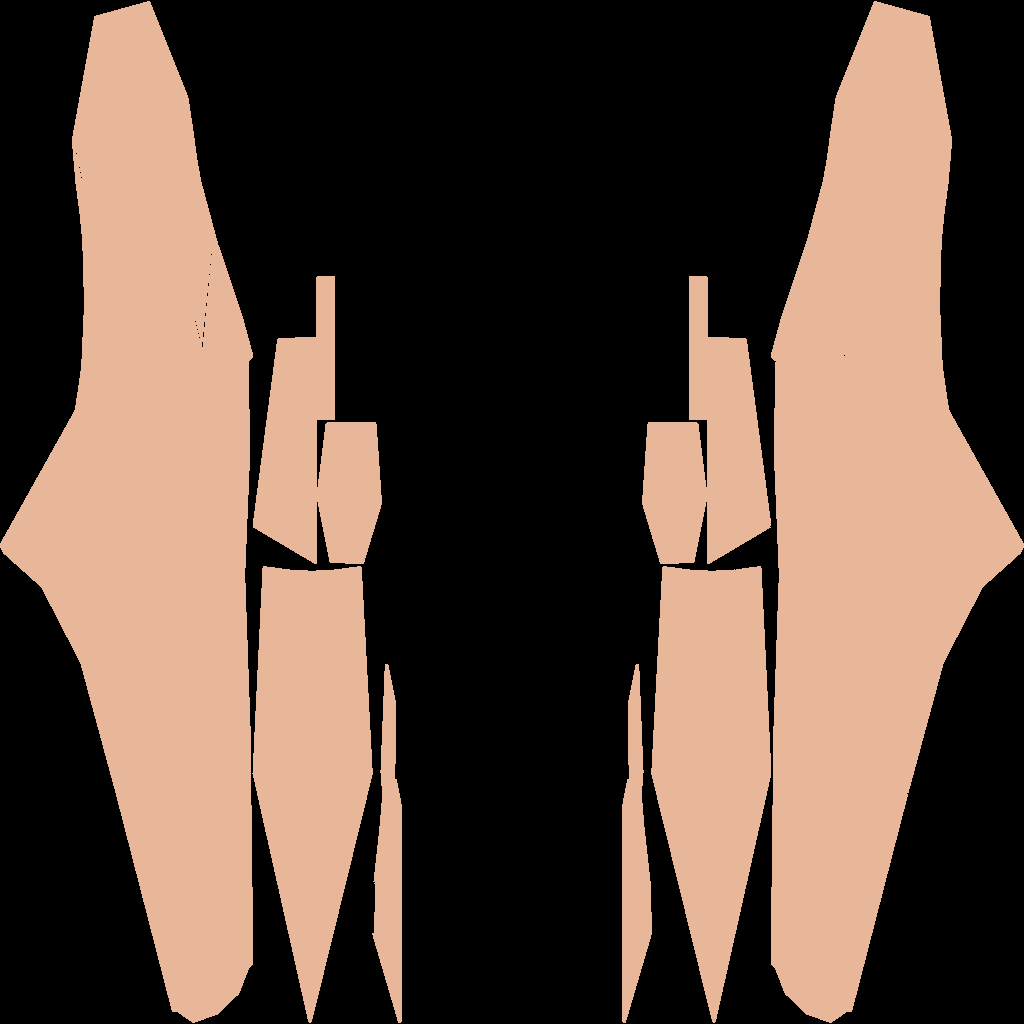
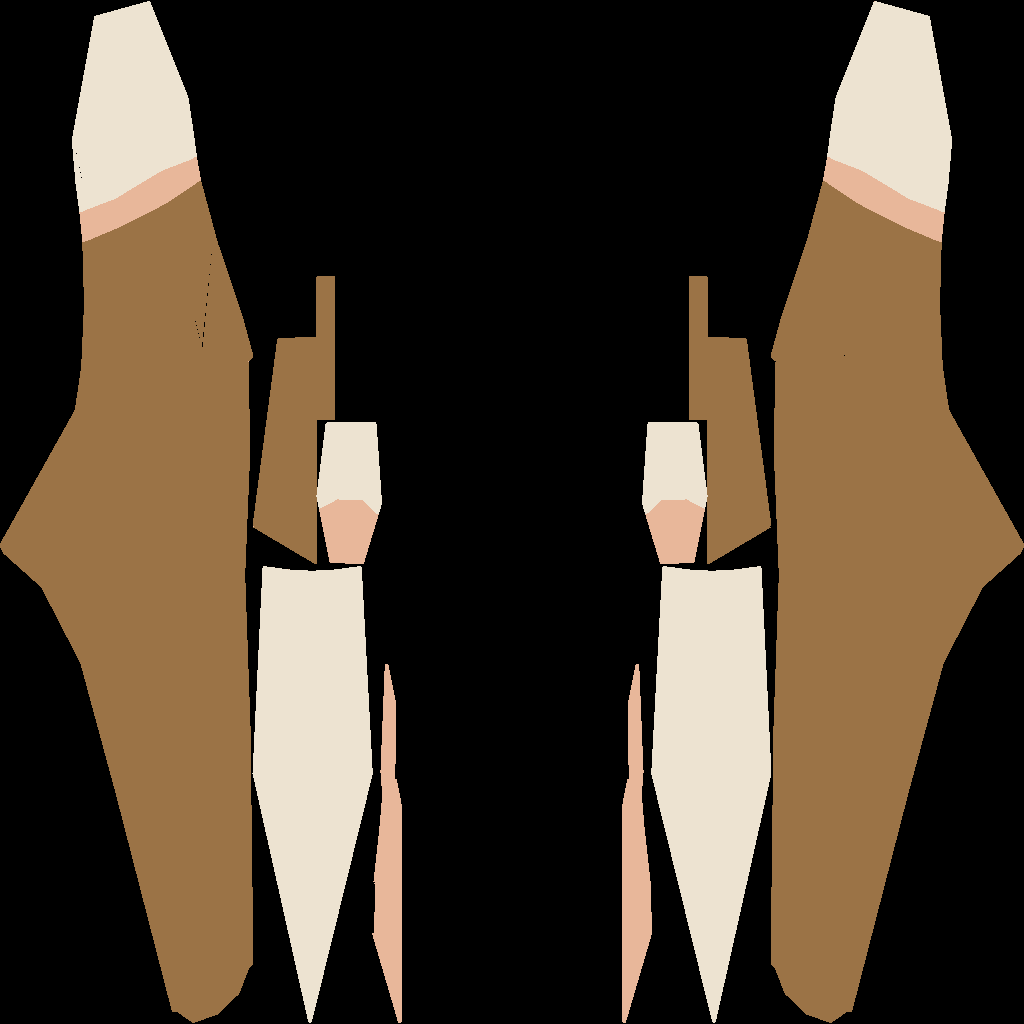
Cassie clothing block-in: camel + ivory flat fills on cassie_body_D
Trousers camel below waistband z 1.120. Sweater ivory crop hem z 1.158 to mock-neck top z 1.399, sleeves to wrist ring z 0.930. Skin strips at midriff, hands, neck. Face-mask fills, preview colors, final call in Unity.

Geometry unchanged: 425 verts / 400 faces / 802 tris.

diff --git a/ArtSource/Characters/mark_body_seams.py b/ArtSource/Characters/mark_body_seams.py
@@ -1,0 +1,88 @@
+# mark_body_seams.py -- Rara Day 134
+# Marks the body (material slot 0) seam set on Cassie_Mesh and selects only
+# material-0 faces, ready for U > Unwrap.
+#
+# Run with Cassie_Mesh in EDIT MODE. Touches seam flags and selection only --
+# no geometry, no weights, no modifiers. To revert: select all, Edge > Clear Seam.
+#
+# Edge list derived from Cassie_Blockout.blend, not from recall.
+
+import bpy
+import bmesh
+
+# --- seam set -------------------------------------------------------------
+# Leg: from the mirror-plane boundary at the hip, across the seat, down the
+# back-inner corner of the leg to the sole. Opens the leg tube so it unrolls.
+LEG = [(12, 22), (22, 124), (124, 109), (109, 27),
+       (27, 168), (168, 172), (172, 31), (31, 35)]
+
+# Arm: wrist ring splits sleeve from hand (also gives a hard ivory/skin edge),
+# plus one slit along the back-underside of the sleeve to the shoulder cap.
+WRIST_RING = [(44, 46), (46, 139), (139, 138), (138, 44)]
+SLEEVE_SLIT = [(44, 38), (38, 39)]
+
+# Toe box: closed cube, needs a ring. Inner-face perimeter, splits it into
+# one cap plus a five-face disk.
+TOE = [(100, 101), (101, 103), (103, 102), (102, 100)]
+
+SEAMS = LEG + WRIST_RING + SLEEVE_SLIT + TOE
+
+# --- guards ---------------------------------------------------------------
+# Spot-check three verts so a reordered or wrong mesh aborts instead of
+# marking seams in random places.
+SPOT = {12:  (0.0000, 0.1535, 0.9067),
+        44:  (0.4505, 0.0485, 0.8937),
+        100: (0.0260, -0.1500, 0.0010)}
+
+obj = bpy.context.object
+if obj is None or obj.type != 'MESH':
+    raise RuntimeError("Select Cassie_Mesh and enter Edit Mode first.")
+if obj.mode != 'EDIT':
+    raise RuntimeError("Enter Edit Mode first.")
+
+me = obj.data
+if len(me.vertices) != 240:
+    raise RuntimeError("Expected 240 verts, got %d -- wrong mesh or edited since Day 134." % len(me.vertices))
+
+bm = bmesh.from_edit_mesh(me)
+bm.verts.ensure_lookup_table()
+bm.edges.ensure_lookup_table()
+bm.faces.ensure_lookup_table()
+
+for idx, expected in SPOT.items():
+    co = bm.verts[idx].co
+    if max(abs(co[i] - expected[i]) for i in range(3)) > 1e-3:
+        raise RuntimeError("Vert %d moved (%s vs expected %s). Aborting -- re-derive the edge list."
+                           % (idx, tuple(round(c, 4) for c in co), expected))
+
+# --- mark -----------------------------------------------------------------
+marked, missing = 0, []
+for a, b in SEAMS:
+    e = bm.edges.get((bm.verts[a], bm.verts[b]))
+    if e is None:
+        missing.append((a, b))
+    else:
+        e.seam = True
+        marked += 1
+
+# --- select material 0 only ----------------------------------------------
+for f in bm.faces:
+    f.select_set(False)
+for e in bm.edges:
+    e.select_set(False)
+for v in bm.verts:
+    v.select_set(False)
+
+body = 0
+for f in bm.faces:
+    if f.material_index == 0:
+        f.select_set(True)
+        body += 1
+bm.select_flush(True)
+
+bmesh.update_edit_mesh(me)
+
+print("seams marked: %d / %d" % (marked, len(SEAMS)))
+print("material-0 faces selected: %d (expect 118)" % body)
+if missing:
+    print("MISSING EDGES -- do not unwrap, stop and check:", missing)

diff --git a/ideas.md b/ideas.md
@@ -894,3 +894,71 @@ mixes two objects. Same category error as the hair shell.
 **Not yet scoped.** Decide first whether the hook clip ever frames it — if no
 shot sees under the jaw, this is post-launch. Check against the six shots
 before spending a session on it.
+
+## Day 134 — Body UV unwrap (fallout and constraints)
+
+Body unwrapped. Three things banked out of it, each with the numbers needed to
+reopen without re-diagnosing.
+
+### Hand island self-overlaps
+
+The 25-face hand island (mesh z 0.78–0.93) is cut only at the wrist ring, so the
+branched blob — palm, curled finger section, thumb — pancakes onto itself.
+`UV > Select > Overlap` catches it every time.
+
+**Harmless as long as the hand stays one flat skin colour.** Nothing reads
+wrong because every overlapping texel is the same colour. It only becomes a
+defect if dorsal knuckle shading is ever painted.
+
+**The fix, if it's ever needed:** ring seam at the thumb base, making the thumb
+its own island. Not a lengthwise palm cut — the curl means the palm side is
+never a silhouette element anyway (see the Day 122 notch reasoning in the
+brief, same argument).
+
+### Mirror U is ON — painted body art must be duplicated and flipped
+
+Cassie's Mirror modifier is flag 75 = clipping + vertex groups + X axis +
+**mirror U**. The mirrored half samples `1 − u`, not the same UVs.
+
+So the base half's islands live in **u 0–0.5** and the right side of her body
+reads from **u 0.5–1**, which is empty until it's painted. Workflow: paint the
+left half, then duplicate the layer and flip horizontally in Photopea. Region
+[a, b] maps exactly onto [1−b, 1−a].
+
+This is why the body was packed and then squashed with `S X 0.5` rather than
+filling the square. The head unwrap already followed this convention — face
+islands sit at u[0.138, 0.500] — so it's the file's existing rule, not a new one.
+
+Texels are 2:1 horizontally as a result. Invisible on flat colour, and a
+horizontal hem line stays horizontal. Do not "fix" it.
+
+**Why keep Mirror U on:** it's one modifier for the whole mesh, so it's
+all-or-nothing, and the face wants asymmetric freckles. The face wins.
+
+### Body and face are separate materials — separate textures
+
+`Cassie_Body` and `Cassie_Face` are different material slots with different
+images (`cassie_body_D.png`, `cassie_face_D.png`). The body does **not** need
+to pack around the head islands and doesn't.
+
+**If they're ever atlased into one material** — for the draw-call saving — the
+body needs a full repack, because both currently occupy overlapping regions of
+0–1 in the same UV layer. Cheap now, annoying later. Decide before painting
+anything detailed.
+
+### Material slot trap (cost: ~10 min this session)
+
+The material-name field in the shader editor header **replaces the material in
+the active slot**. It does not switch which slot you're editing — that's the
+`Slot N` dropdown to its left.
+
+Selecting `Cassie_Body` from that field while slot 3 was active overwrote
+`Cassie_Hair`. It dropped to zero users, and zero-user datablocks are not
+written on save. Recovered from the browse list before Blender restarted; had
+it restarted, yesterday's `#B84921` would have been gone.
+
+Face assignments survive this — the 28 crown/ponytail faces stayed on slot 3
+throughout. Only the material datablock is at risk.
+
+**Related:** `Ctrl+S` does not save image pixels. `Image > Save` is a separate
+action, every time.
